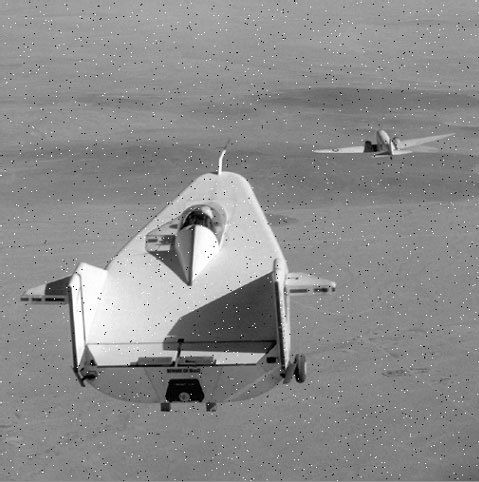
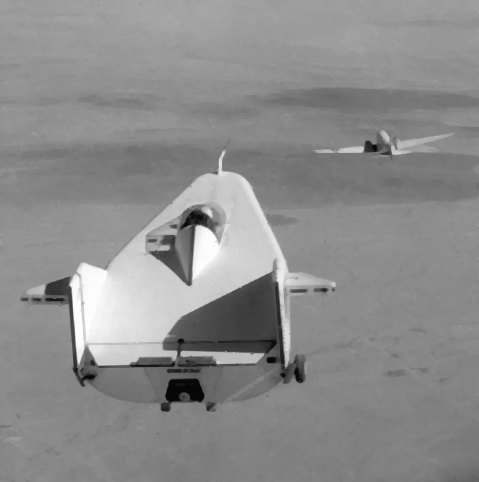
3

diff --git a/Utils/processors/to_median_filter.rb b/Utils/processors/to_median_filter.rb
@@ -3,7 +3,55 @@ require_relative 'base'
 module Utils
   module Processors
     class ToMedianFilter < Base
-      
+      def run! size = 3
+        image.height.times do |i|
+          image.width.times do |j|
+            start_i = i - size / 2 > 0 ? i - size / 2 : 0
+            start_j = j - size / size > 0 ? j - size / 2 : 0
+
+            array_pixels = []
+
+            start_i.upto(start_i + size - 1) do |ii|
+              start_j.upto(start_j + size - 1) do |jj|
+                array_pixels << {
+                  get_gr(
+                    image.view[ii][jj].red,
+                    image.view[ii][jj].green,
+                    image.view[ii][jj].blue
+                  ) => [image.view[ii][jj].red,
+                    image.view[ii][jj].red, image.view[ii][jj].blue]
+                } if ii < image.height && jj < image.width
+              end
+            end
+
+            array_pixels.sort_by! { |item| item.first[0] }
+
+            result = array_pixels[array_pixels.length / 2]
+
+            image.view[i][j].red = result.first[1][0]
+            image.view[i][j].green = result.first[1][1]
+            image.view[i][j].blue = result.first[1][2]
+
+            # image.view[i][j].red = 255 - image.view[i][j].red
+            # image.view[i][j].green = 255 - image.view[i][j].green
+            # image.view[i][j].blue = 255 - image.view[i][j].red
+          end
+        end
+
+        # image.image.view = image.view
+
+        image.view.sync
+
+        image.image_data = image.image_data.map do |r, g, b|
+          [r, g, b]
+        end
+      end
+
+      private
+
+      def get_gr(r, g, b)
+        0.3 * r + 0.59 * g + 0.11 * b
+      end
     end
   end
 end

diff --git a/laba1/main.rb b/laba1/main.rb
@@ -21,7 +21,7 @@ end
 image = Utils::Image.new(opts[:infile])
 HistogrammPlotter.plot(image.histogramm, 'Before correction', 'out1.jpeg')
 Utils::Processors::ToNegative.new(image).run! if opts[:negative]
-Utils::Processors::ToMedianFilter.new(image, opts[:size]).run! if opts[:median_filter]
-Utils::Processors::ToHarmonicMean.new(image).run! opts[:size] if opts[:harmonic_mean]
+Utils::Processors::ToMedianFilter.new(image).run! opts[:size] if opts[:median_filter]
+Utils::Processors::ToHarmonicMean.new(image).run! if opts[:harmonic_mean]
 HistogrammPlotter.plot(image.histogramm, 'After correction', 'out2.jpeg')
 image.save(opts[:outfile])
